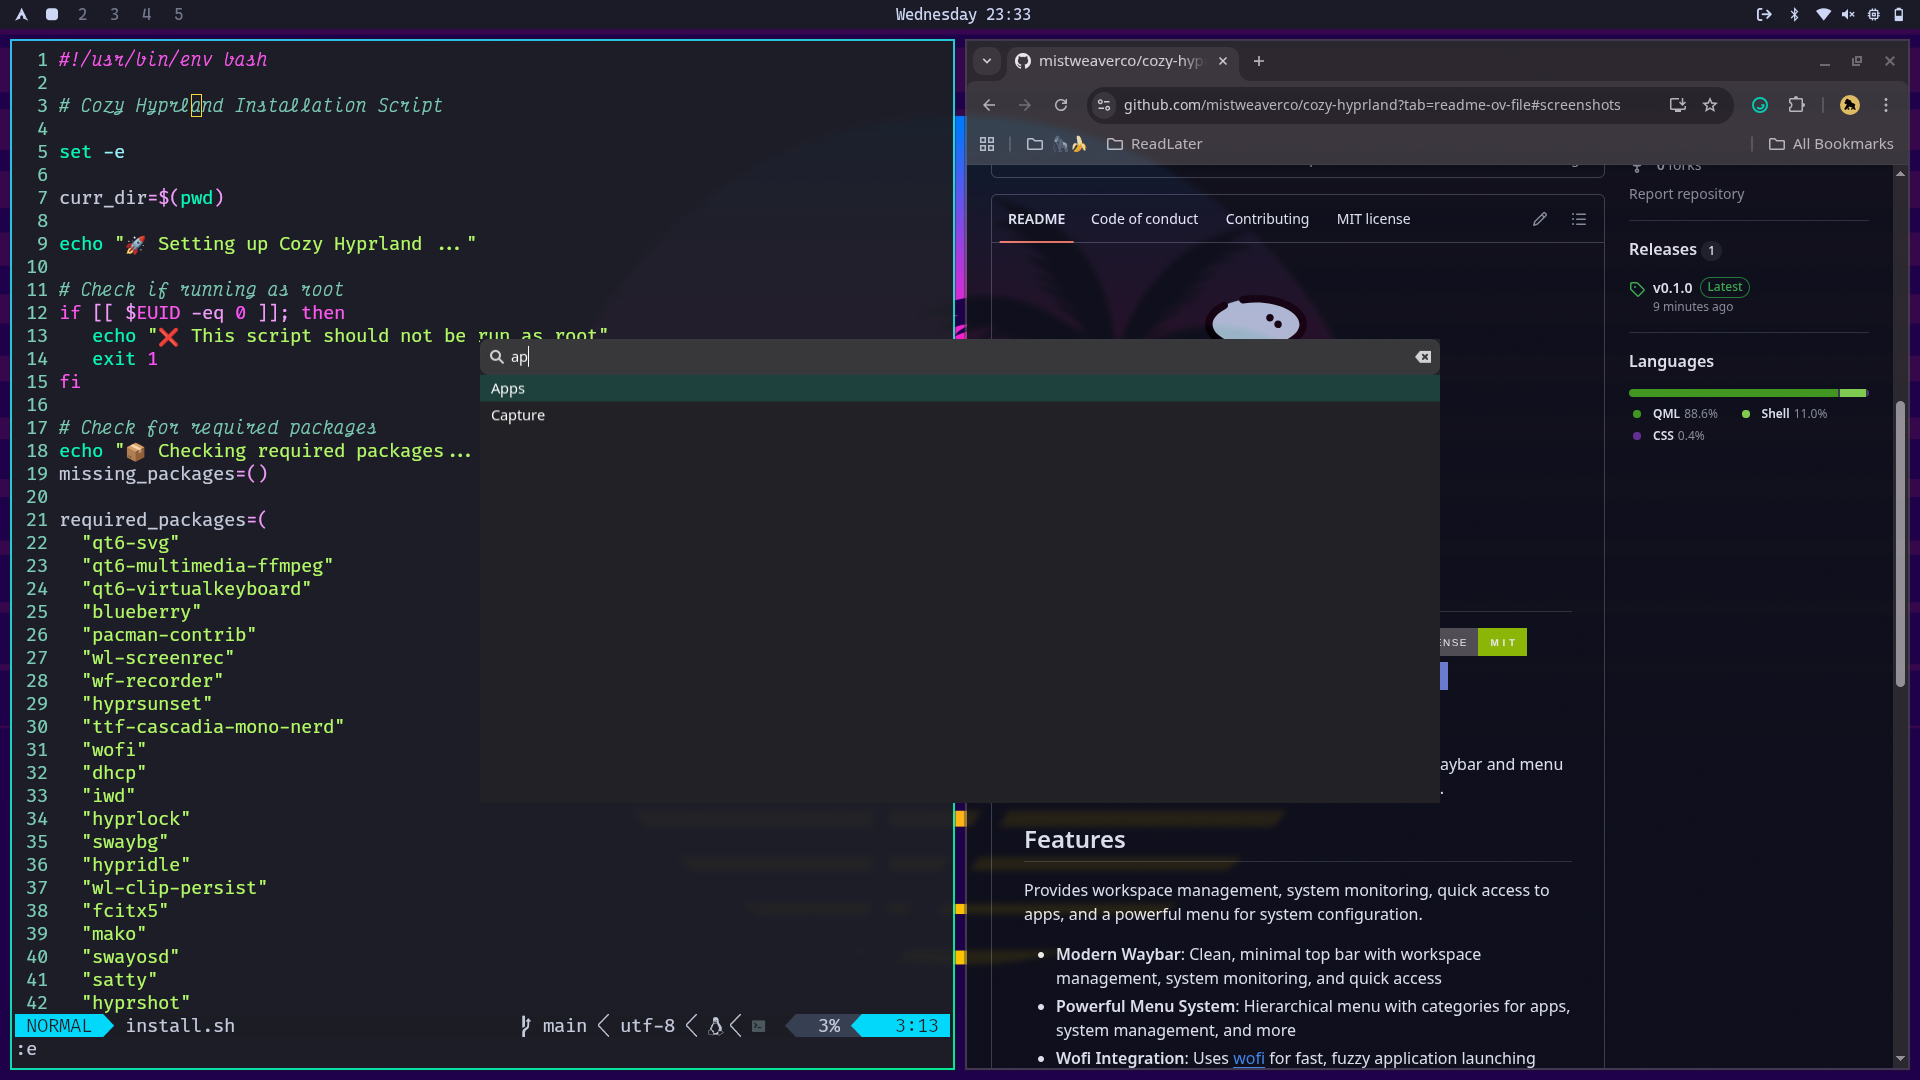
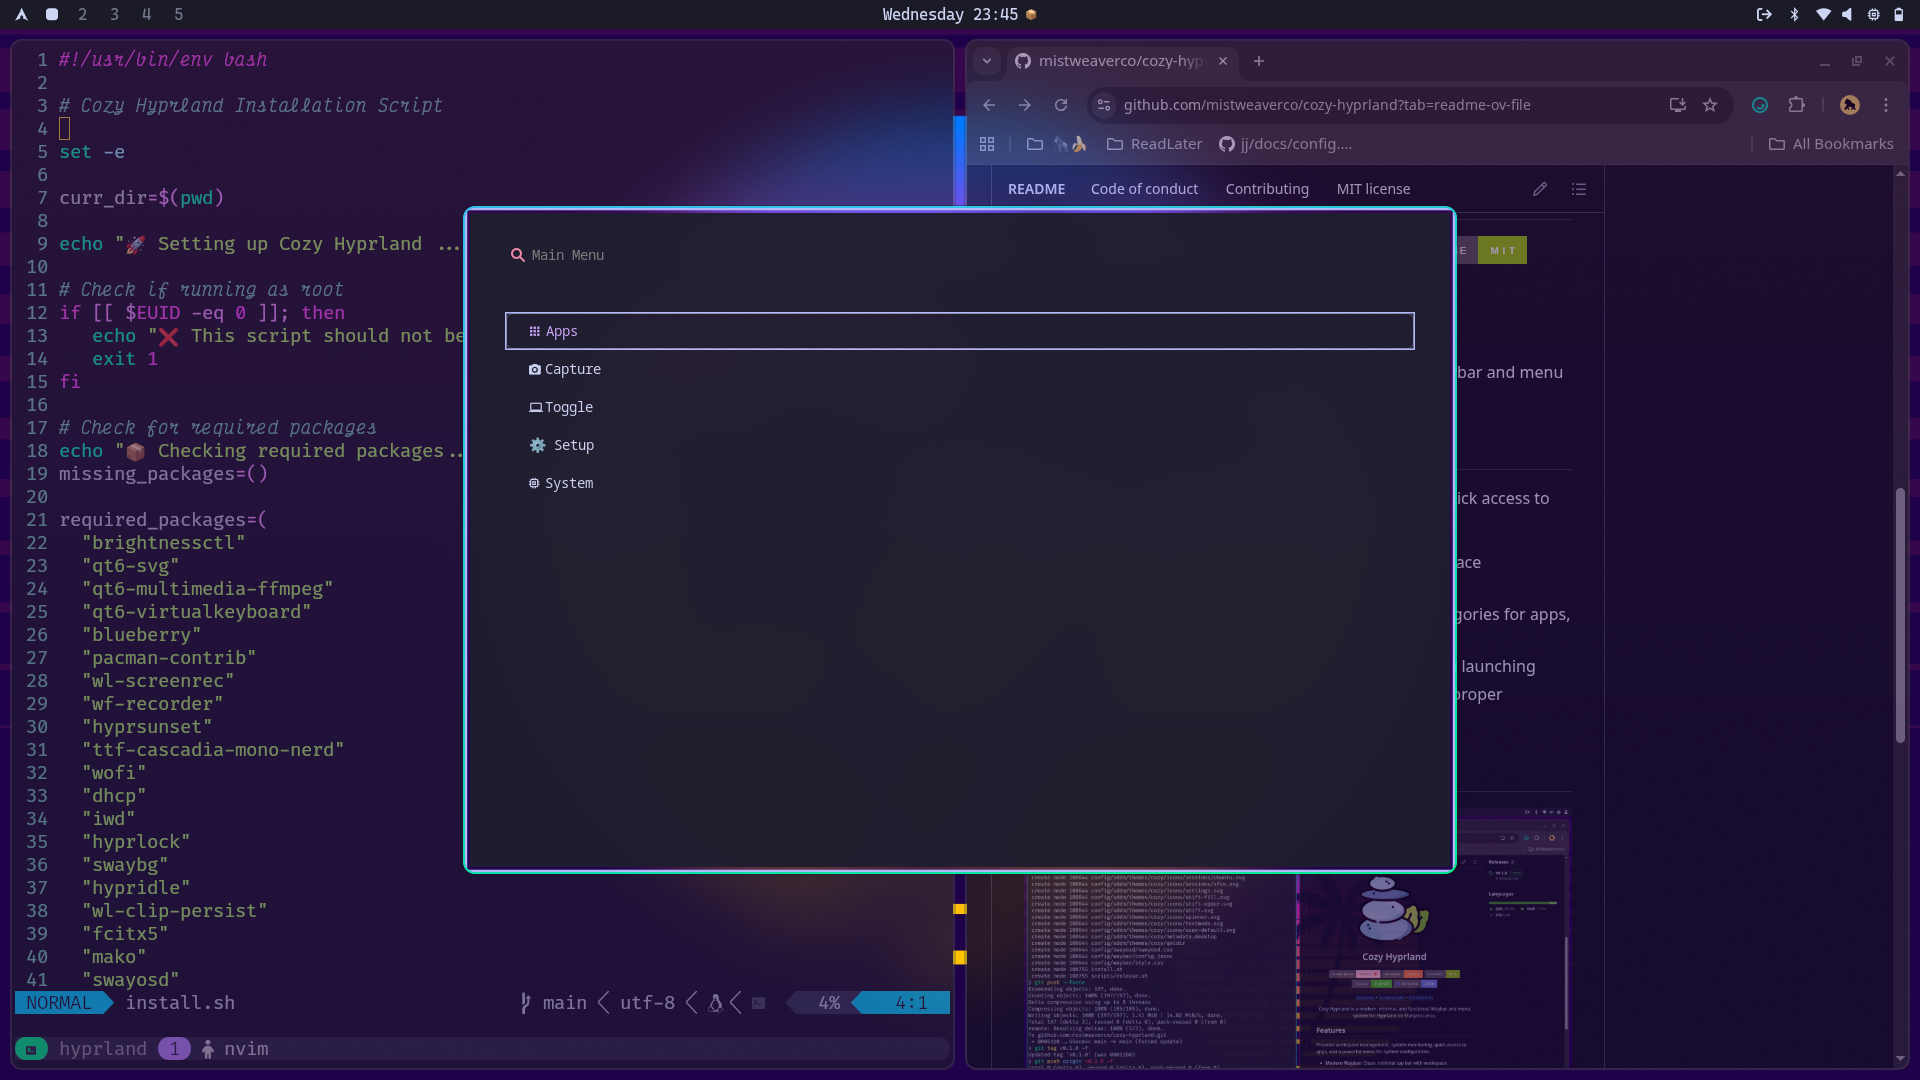
feat(style): transparency and screenshot of menu

diff --git a/config/wofi/style.css b/config/wofi/style.css
@@ -46,6 +46,7 @@
 @define-color	surface0-rgb  rgb(49, 50, 68);
 @define-color	base  #1e1e2e;
 @define-color	base-rgb  rgb(30, 30, 46);
+@define-color	base-translucent  rgb(30, 30, 46, 0.8);
 @define-color	mantle  #181825;
 @define-color	mantle-rgb  rgb(24, 24, 37);
 @define-color	crust  #11111b;
@@ -56,13 +57,18 @@
   font-size: 14px;
 }
 
+#outer-box {
+    background-color: rgba(20, 20,20, 0.7);
+    border: 1px solid rgba(255, 0, 0, 0.5);
+}
+
 /* Window */
 window {
   margin: 0px;
   padding: 10px;
   border: 0.16em solid @lavender;
   border-radius: 0.1em;
-  background-color: @base;
+  background-color: @base-translucent;
   animation: slideIn 0.5s ease-in-out both;
 }
 
